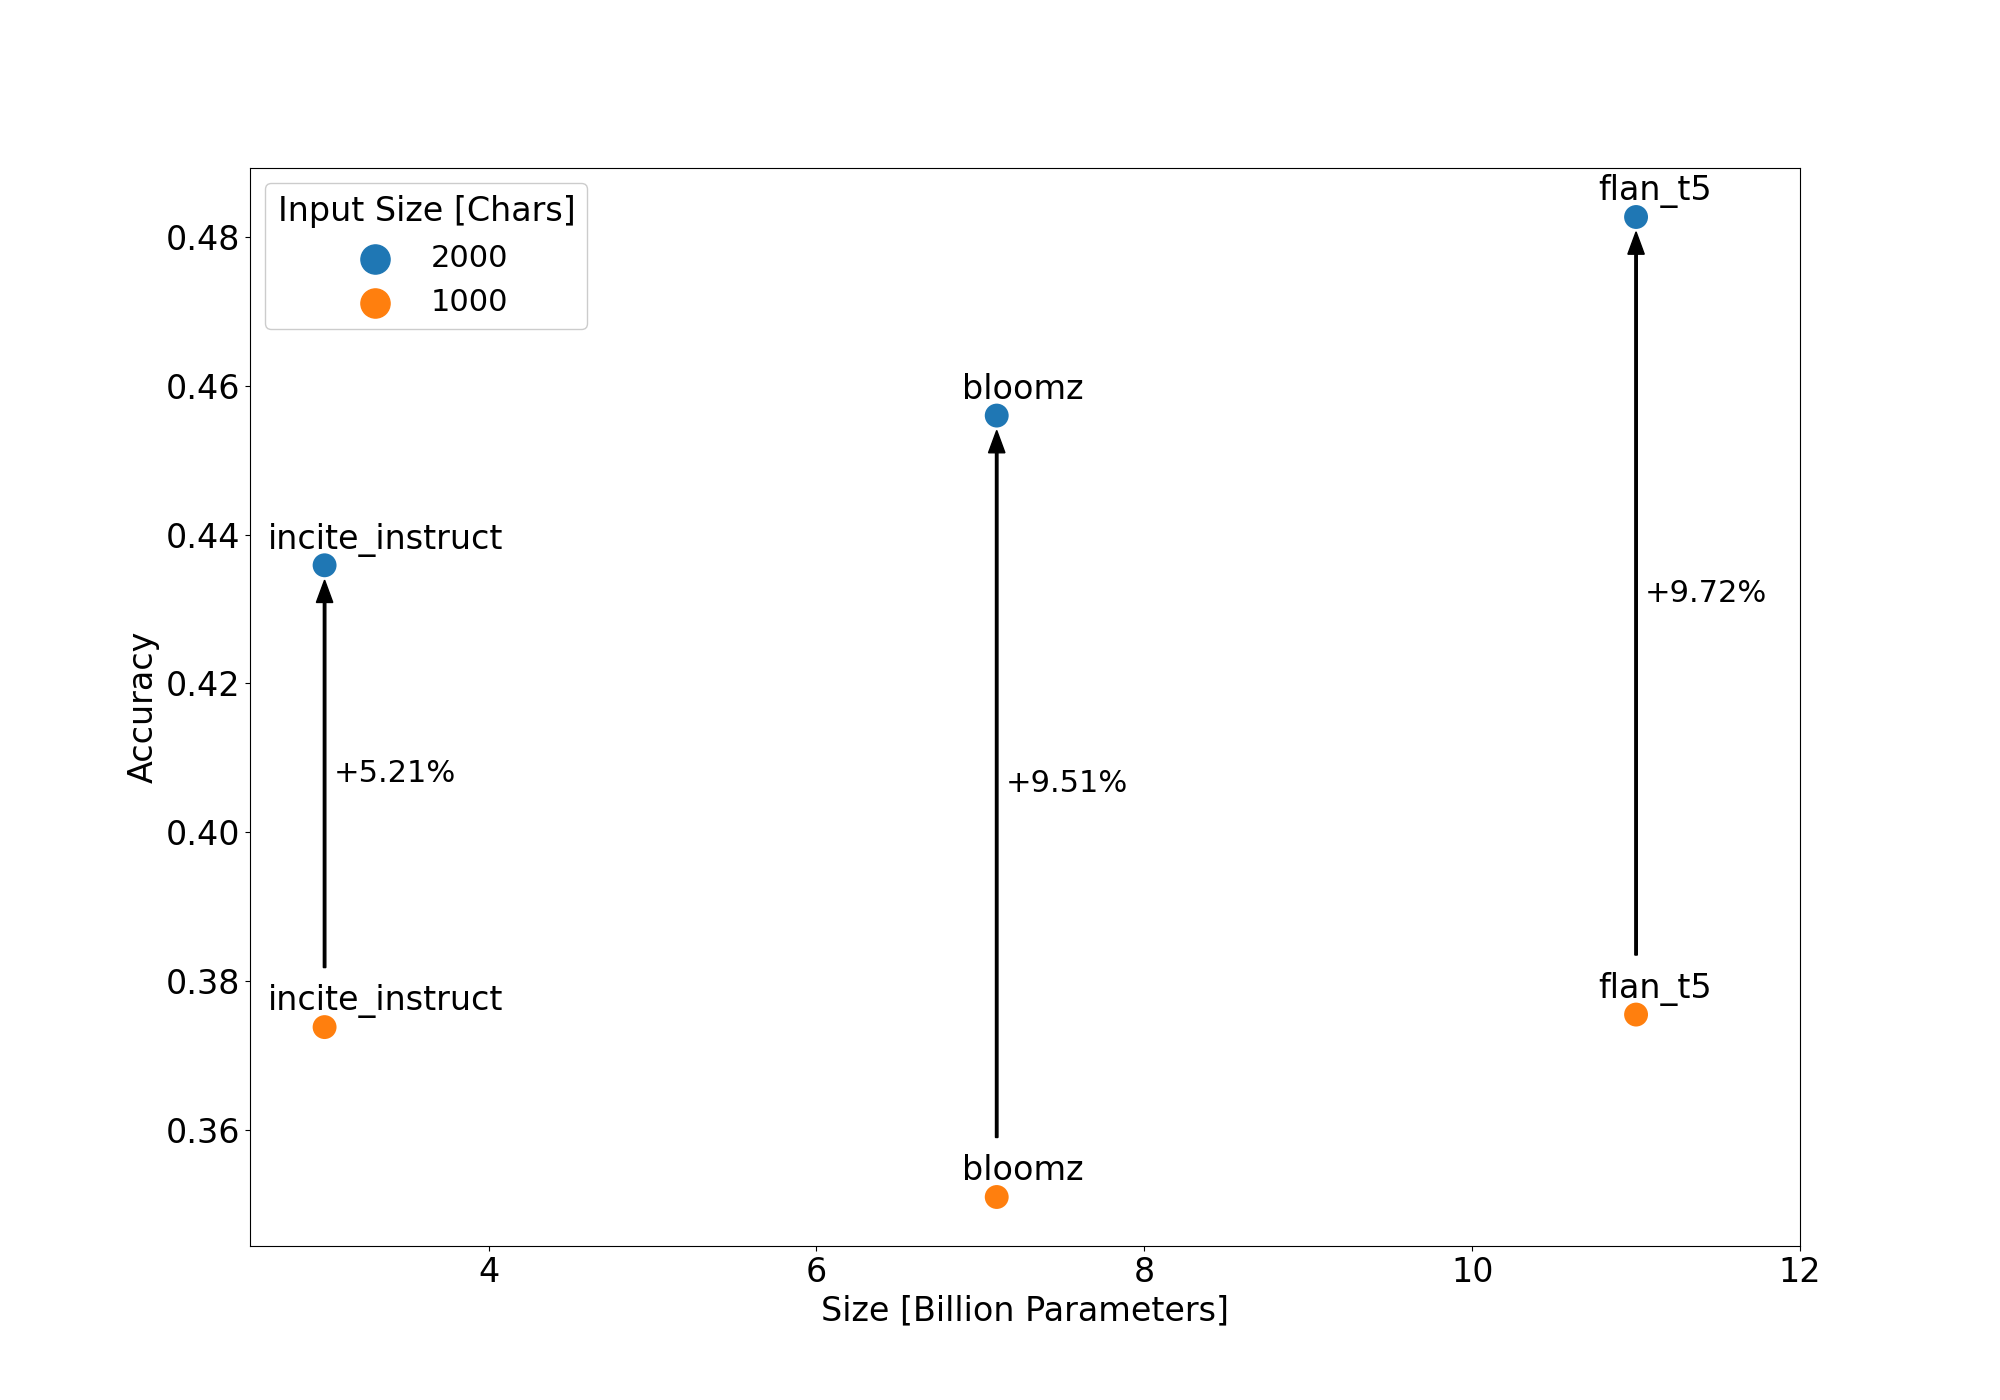
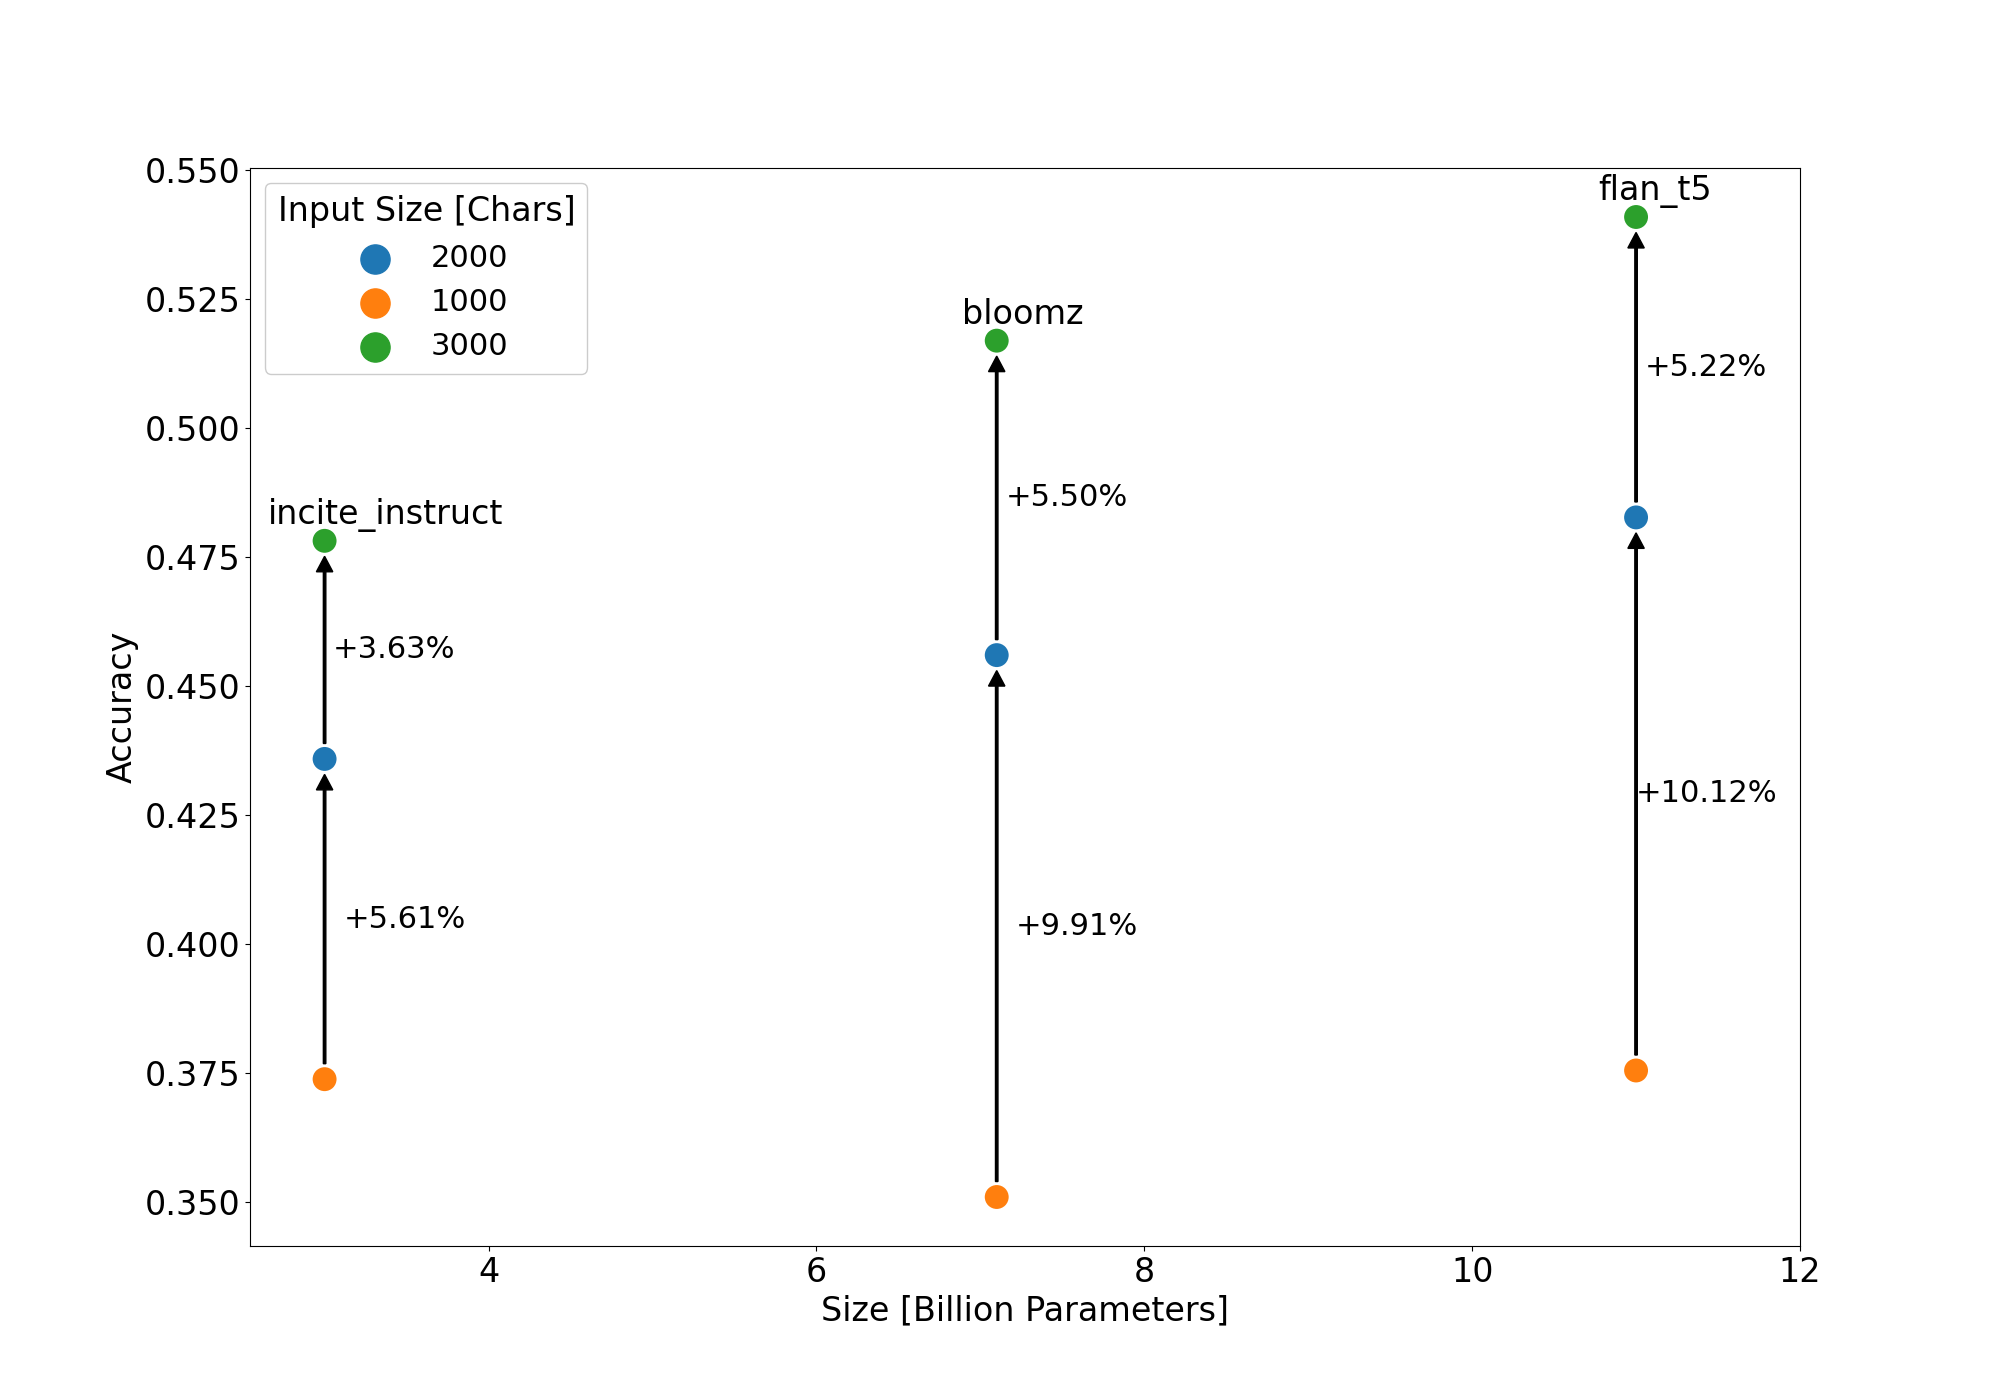
clean plotting

diff --git a/wiki_poc/evaluation/plotting/precomputed_plotting.py b/wiki_poc/evaluation/plotting/precomputed_plotting.py
@@ -362,11 +362,12 @@ class PrecomputedPlotting():
         my_font_size = 24
         sns.scatterplot(data=df2, x="size", y="accuracy", hue="input_size", s=350, markers=True)
 
-        for i, row in df2.iterrows():
-            label_length = len(row['model'])
-            mv_left = label_length * 2 + -5
-            plt.annotate(row['model_class'], (row['size'], row['accuracy']), xytext=(-mv_left, 12), textcoords='offset points',
-                         fontsize=my_font_size)
+        # for i, row in df2.iterrows():
+        #     label_length = len(row['model'])
+        #     # only label the top-most
+        #     mv_left = label_length * 2 + -5
+        #     plt.annotate(row['model_class'], (row['size'], row['accuracy']), xytext=(-mv_left, 12), textcoords='offset points',
+        #                  fontsize=my_font_size)
         
 
         grouped_data = df2.groupby('model_class')
@@ -383,29 +384,28 @@ class PrecomputedPlotting():
             # padding to not overlap labels
             padding = 0.008
             # Calculate the difference in y values
-            y_diff = abs(y2 - y1) - padding - 0.002 # remove dot radius
+            y_diff = abs(y2 - y1) - 0.006 # remove dot radius
 
-            start = min(y1, y2) + padding
+            start = min(y1, y2) + 0.003
+            if len(sorted_data) == 2:
+                start += padding
+                y_diff -= padding
             
             # Draw the arrow
             plt.arrow(x1, start, 0, y_diff, head_width=0.1, head_length=0.003, width=0.015, color='black', length_includes_head=True)
             
             # Add the percentage score alongside the arrow, move text by "percentage_length" to the right
-            percentage_length = 0.8
+            percentage_length = 0.86
             plt.text(x1 + percentage_length, start + y_diff / 2, f'+{abs(y_diff):.2%}', ha='right', va='center', fontsize=my_font_size - 2)
 
             # got a third point, compare it as well
             if len(sorted_data) == 3:
                 x3, y3 = sorted_data.iloc[2]['size'], sorted_data.iloc[2]['accuracy']
-                print("model", group)
-                print("x2", x1, "y2", y1)
-                print("x3", x3, "y3", y3)
 
                 # Calculate the difference in y values
-                y_diff = abs(y3 - y1) - padding - 0.004 # remove dot radius
+                y_diff = abs(y3 - y1) - 0.006 # remove dot radius
 
-                start = min(y1, y3) + 0.01
-                print("start", start)
+                start = min(y1, y3) + 0.003
 
                 # Draw the arrow
                 plt.arrow(x2, start, 0, y_diff, head_width=0.1, head_length=0.003, width=0.015, color='black', length_includes_head=True)
@@ -413,6 +413,23 @@ class PrecomputedPlotting():
                 # Add the percentage score alongside the arrow, move text by "percentage_length" to the right
                 percentage_length = 0.8
                 plt.text(x2 + percentage_length, start + y_diff / 2, f'+{abs(y_diff):.2%}', ha='right', va='center', fontsize=my_font_size - 2)
+
+                # add the model label
+                entry = sorted_data.iloc[2]
+                label_length = len(entry['model'])
+                # only label the top-most
+                mv_left = label_length * 2 + -5
+                plt.annotate(entry['model_class'], (entry['size'], entry['accuracy']), xytext=(-mv_left, 12), textcoords='offset points',
+                            fontsize=my_font_size)
+            else:
+                # add the model label
+                entry = sorted_data.iloc[1]
+                label_length = len(entry['model'])
+                # only label the top-most
+                mv_left = label_length * 2 + -5
+                plt.annotate(entry['model_class'], (entry['size'], entry['accuracy']), xytext=(-mv_left, 12), textcoords='offset points',
+                            fontsize=my_font_size)
+
 
 
         # Set labels and title
